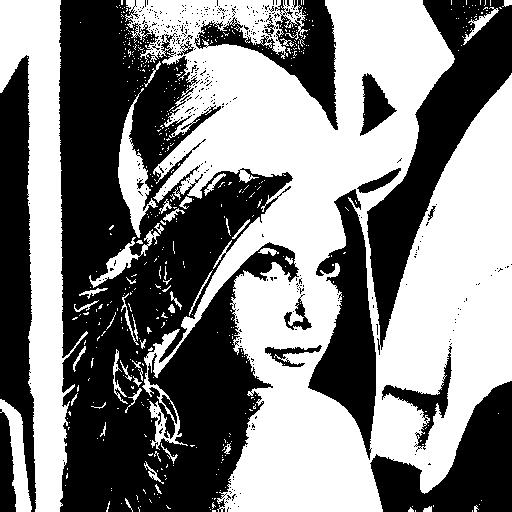
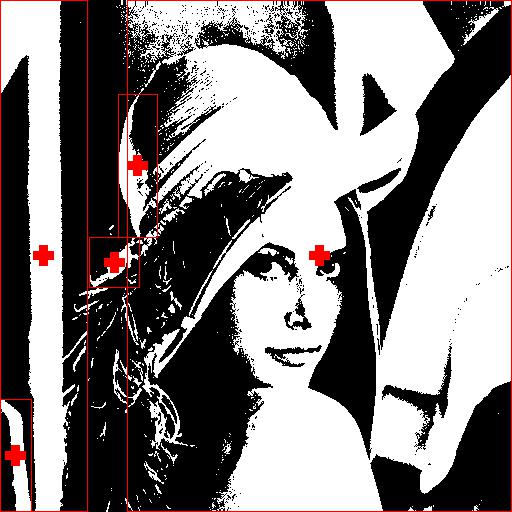
fix wrong file to save

Changed region(s): [[0.0, 0.0, 1.0, 1.0], [0.5938, 0.4688, 0.6562, 0.5312], [0.0625, 0.4688, 0.125, 0.5312]]

diff --git a/hw2/image.py b/hw2/image.py
@@ -200,8 +200,8 @@ if len( sys.argv ) == 2:
 		drawCross(rect.getXY(), conectPixels)
 
 	del draw
-	connectImage.show()
-	binaryImage.save("%s/boundingbox.jpg" % DIR)
+	# connectImage.show()
+	connectImage.save("%s/boundingbox.jpg" % DIR)
 
 else:
 	print "ERROR: Image path is wrong. Please enter right image as second argument."
